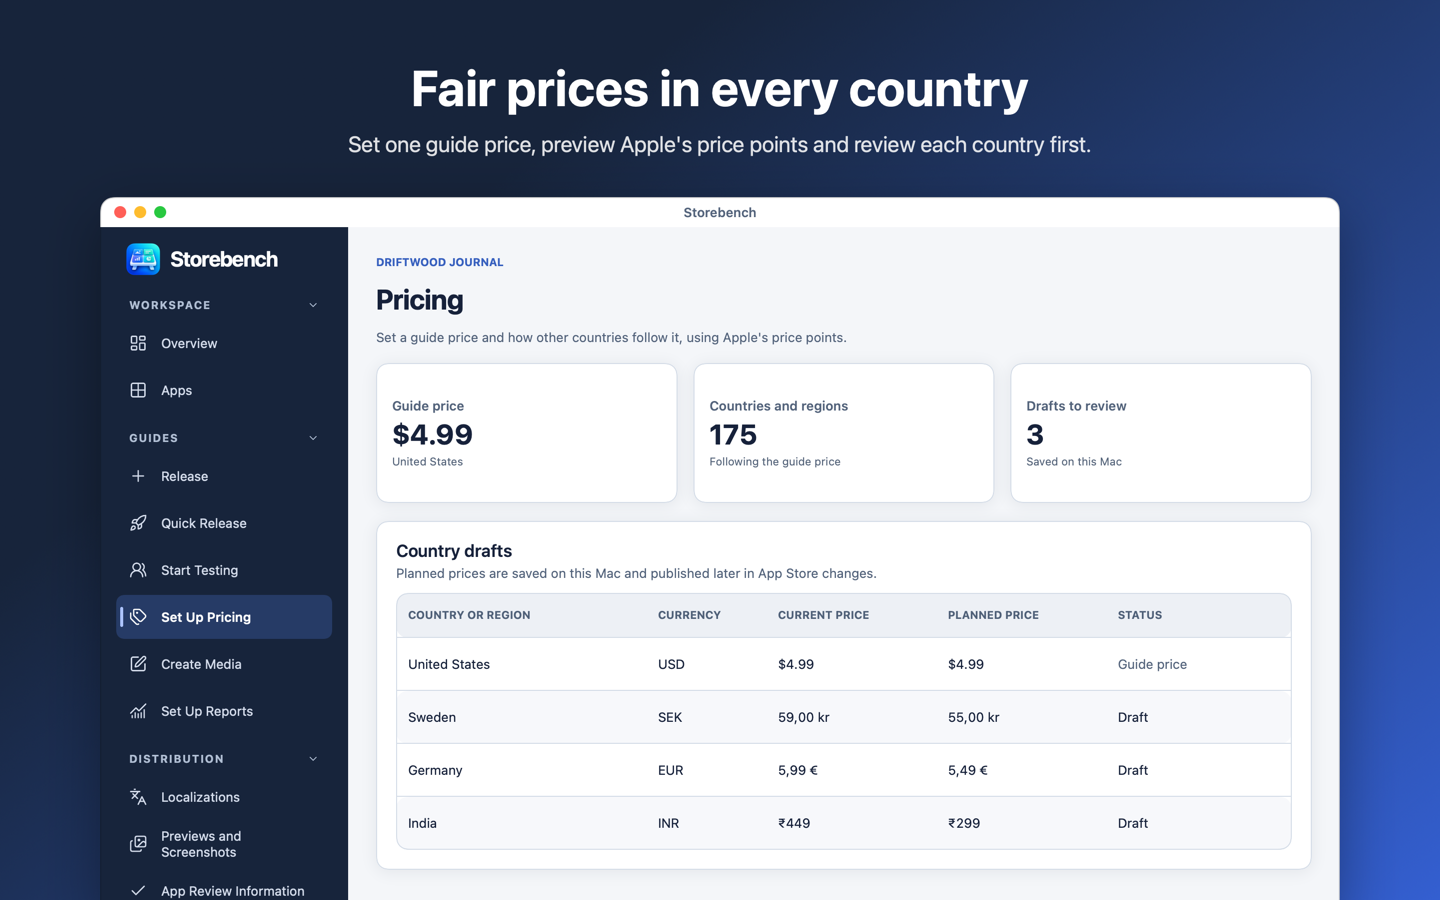
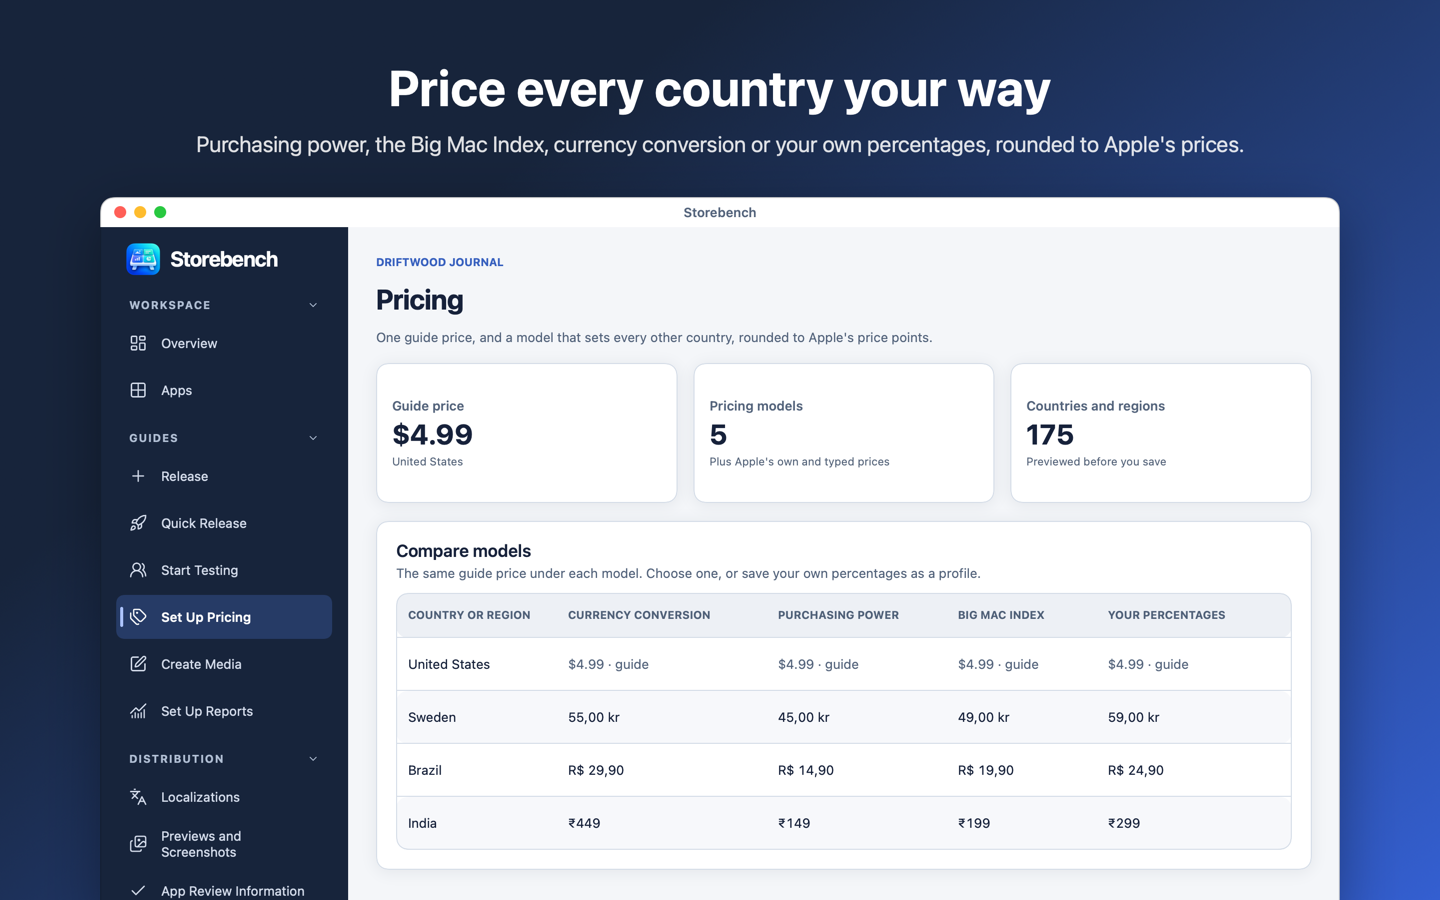
fix highlgihts readme

diff --git a/README.md b/README.md
@@ -8,6 +8,20 @@ Edits are saved locally. Before sending changes to App Store Connect, Storebench
 
 The screenshots show a fictional app with sample data.
 
+### Pricing models
+
+Set one guide price and let a model price every other country: World Bank purchasing power, the Big Mac Index, currency conversion, the same amount everywhere, or your own percentage per country. Compare the models side by side, keep a choice as a saved profile, or use Apple's comparable prices or typed prices instead. Every price is rounded to one of Apple's price points and reviewed before anything is sent.
+
+![Pricing comparing currency conversion, purchasing power, the Big Mac Index and your own percentages for the same guide price](docs/images/pricing.png)
+
+### Your ASO history and what it did
+
+Storebench keeps every listing you import, so your full ASO history stays on your Mac. ASO Progress marks each saved change on daily impressions, product page views, first-time downloads and paid purchases, and compares the days after a change with the same number of days before. That shows whether a new subtitle, keywords or screenshots made a difference.
+
+![ASO Progress with saved listing changes marked on impressions, page views, downloads and sales](docs/images/aso-progress.png)
+
+### Releases, reviews and the rest
+
 ![Release guide with numbered steps and what each step still needs](docs/images/release-guide.png)
 
 ![A review listing every App Store Connect change before Send to Apple](docs/images/review-changes.png)
@@ -15,8 +29,6 @@ The screenshots show a fictional app with sample data.
 ![Localizations with character limits for each language](docs/images/localizations.png)
 
 ![TestFlight builds with Apple's status and groups](docs/images/testflight.png)
-
-![Pricing with a guide price and country drafts](docs/images/pricing.png)
 
 ![Sales and Trends from saved reports](docs/images/sales.png)
 
